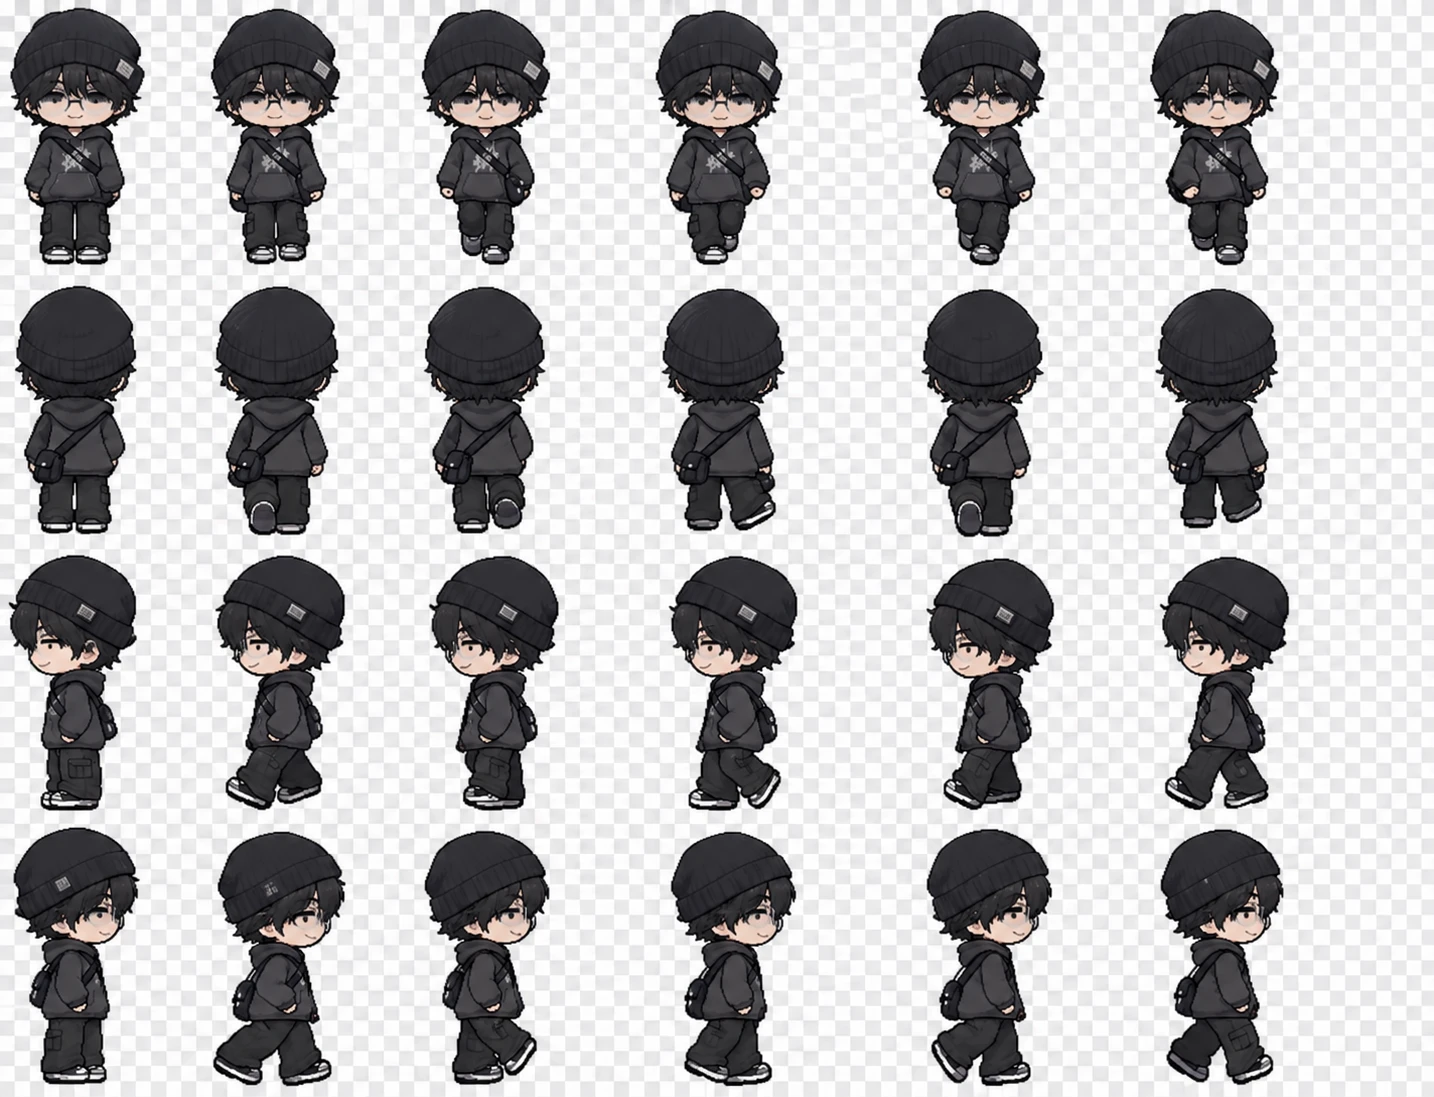
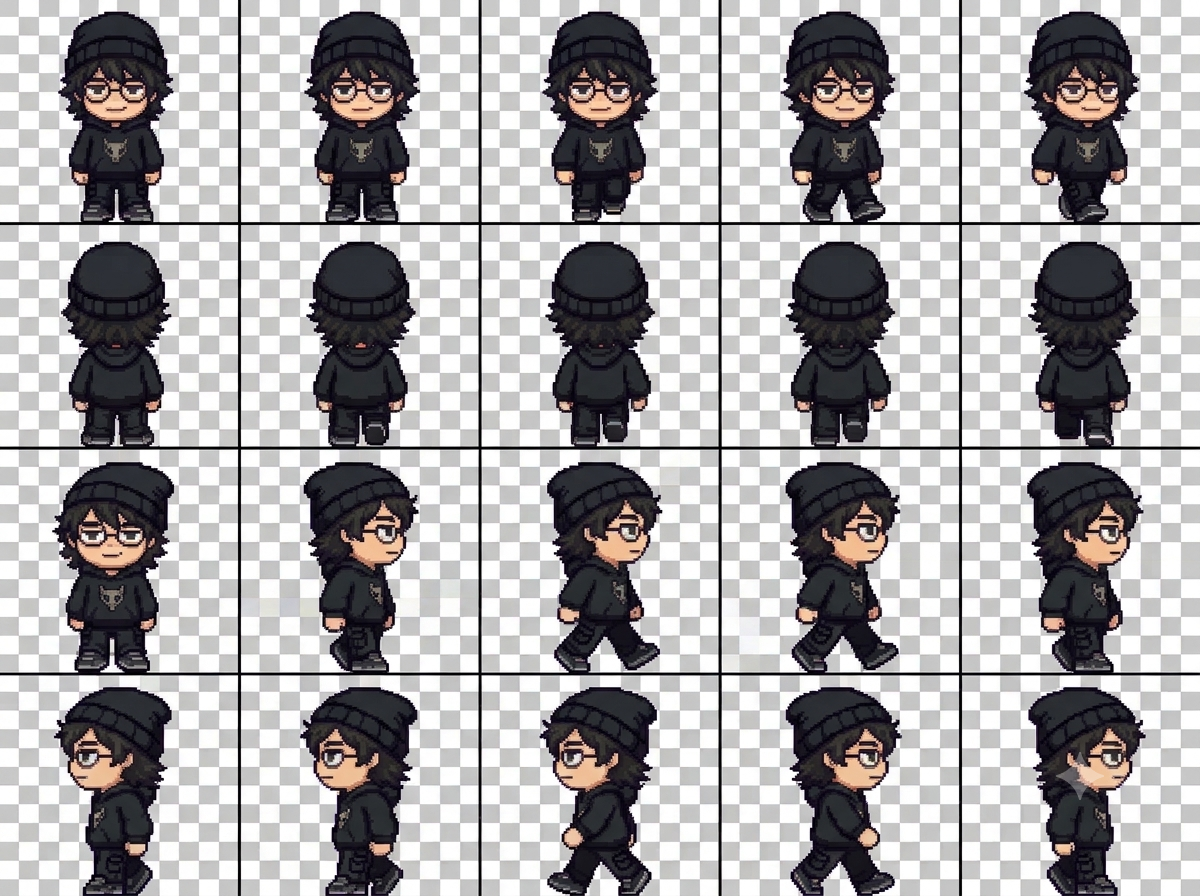
히든 캐릭터 그림 교체 (검은 비니·안경·후드)
Claude-Session: https://claude.ai/code/session_01KaPsBYLrtbRfMYNG2xeBCK

diff --git a/docs/app.js b/docs/app.js
@@ -48,7 +48,7 @@ function spr(cat, k, col, sc) {
   return `<div class="clip" style="width:${it[2] * sc}px;height:${it[3] * sc}px;POS"><img class="px" src="assets/decor/${cat}.png" alt="" style="width:${S.sw * sc}px;height:${S.sh * sc}px;margin-left:${-col * S.cw * sc}px;margin-top:${-i * S.ch * sc}px"></div>`;
 }
 const icon = (k, sz) => `<span class="itm" style="width:${sz}px;height:${sz}px"><img class="px" src="assets/ui/items.png" alt="" style="width:${IT.length * sz}px;height:${sz}px;margin-left:${-ITM[k].i * sz}px"></span>`;
-const face = (id, w) => { const s = w / 96; return `<img class="px" src="assets/ch/${id}.webp?v=11" alt="" style="position:absolute;width:${384 * s}px;height:${528 * s}px;left:${-(96 * s - w) / 2}px;top:0;max-width:none">`; };
+const face = (id, w) => { const s = w / 96; return `<img class="px" src="assets/ch/${id}.webp?v=12" alt="" style="position:absolute;width:${384 * s}px;height:${528 * s}px;left:${-(96 * s - w) / 2}px;top:0;max-width:none">`; };
 
 // ---------- 저장 ----------
 let fb = null, user = null, S = null, saveT = null;
@@ -115,7 +115,7 @@ function sleepHTML(id, r) {
   const pos = r.a && r.a[0] === 'bed' ? 'left:3%;bottom:20%' : r.b && r.b[0] === 'bed' ? 'right:3%;bottom:20%' : 'left:calc(50% - 44px);bottom:6%';
   const s = 36 / 96;
   return `<div style="position:absolute;width:88px;height:56px;${pos};z-index:5"><div style="position:absolute;inset:0;filter:brightness(.22)">
-    <div style="position:absolute;left:11px;top:1px;width:36px;height:50px;overflow:hidden;transform:rotate(-90deg)"><img class="px" src="assets/ch/${id}.webp?v=11" alt="" style="width:${384 * s}px;height:${528 * s}px;max-width:none;margin-top:${-132 * s}px"></div>
+    <div style="position:absolute;left:11px;top:1px;width:36px;height:50px;overflow:hidden;transform:rotate(-90deg)"><img class="px" src="assets/ch/${id}.webp?v=12" alt="" style="width:${384 * s}px;height:${528 * s}px;max-width:none;margin-top:${-132 * s}px"></div>
     <div style="position:absolute;left:19px;top:19px;width:67px;height:29px;border:2px solid var(--ink);border-radius:8px 6px 4px 4px;background:#8ccff5;background-image:repeating-linear-gradient(90deg,transparent 0 10px,rgba(255,255,255,.5) 10px 13px)"></div></div>
     <span class="emo" style="left:8px;top:-22px;color:#5b6bd6">Z z z</span></div>`;
 }
@@ -125,7 +125,7 @@ function roomHTML(id, o, scale) {
     <div class="floor" style="background-color:${PAL[r.fc][1]};background-image:${tileUrl('floor', r.fl)}"></div>
     ${slot('deco', r.dc, 'left:6%;top:6%')}${slot('furn', r.a, 'left:3%;bottom:20%')}${slot('furn', r.b, 'right:3%;bottom:20%')}${slot('prop', r.pr, 'left:28%;bottom:4%;z-index:2')}
     ${id && o.sleeping ? sleepHTML(id, r) : ''}${id && o.job ? `<div style="position:absolute;left:50%;top:38%;transform:translateX(-50%);z-index:5;background:#fff;border:3px solid var(--ink);border-radius:10px;padding:6px 10px;font-size:11px;text-align:center;line-height:1.5"><img src="assets/ui/ic_job.png" alt="" style="width:18px;vertical-align:-4px"> ${esc(JOB_NAME[id])} 알바 중<br><b id="jobleft">${timeLeft(o.job.until)}</b></div>` : ''}
-    ${id ? `<div class="shadow" id="shd"></div><div class="man" id="man"><img class="px" src="assets/ch/${id}.webp?v=11" alt="${esc(nameOf(id))}"></div><span class="emo" id="emo" hidden></span><span class="mumble" id="mum" hidden></span>` : ''}
+    ${id ? `<div class="shadow" id="shd"></div><div class="man" id="man"><img class="px" src="assets/ch/${id}.webp?v=12" alt="${esc(nameOf(id))}"></div><span class="emo" id="emo" hidden></span><span class="mumble" id="mum" hidden></span>` : ''}
     ${o.sleeping ? '<div class="night"></div>' : ''}
   </div>`;
 }

diff --git a/docs/index.html b/docs/index.html
@@ -12,6 +12,6 @@
 <main id="app" aria-live="polite"></main>
 <div id="toast" role="status" hidden></div>
 <script src="firebase-config.js?v=3"></script>
-<script type="module" src="app.js?v=18"></script>
+<script type="module" src="app.js?v=19"></script>
 </body>
 </html>
